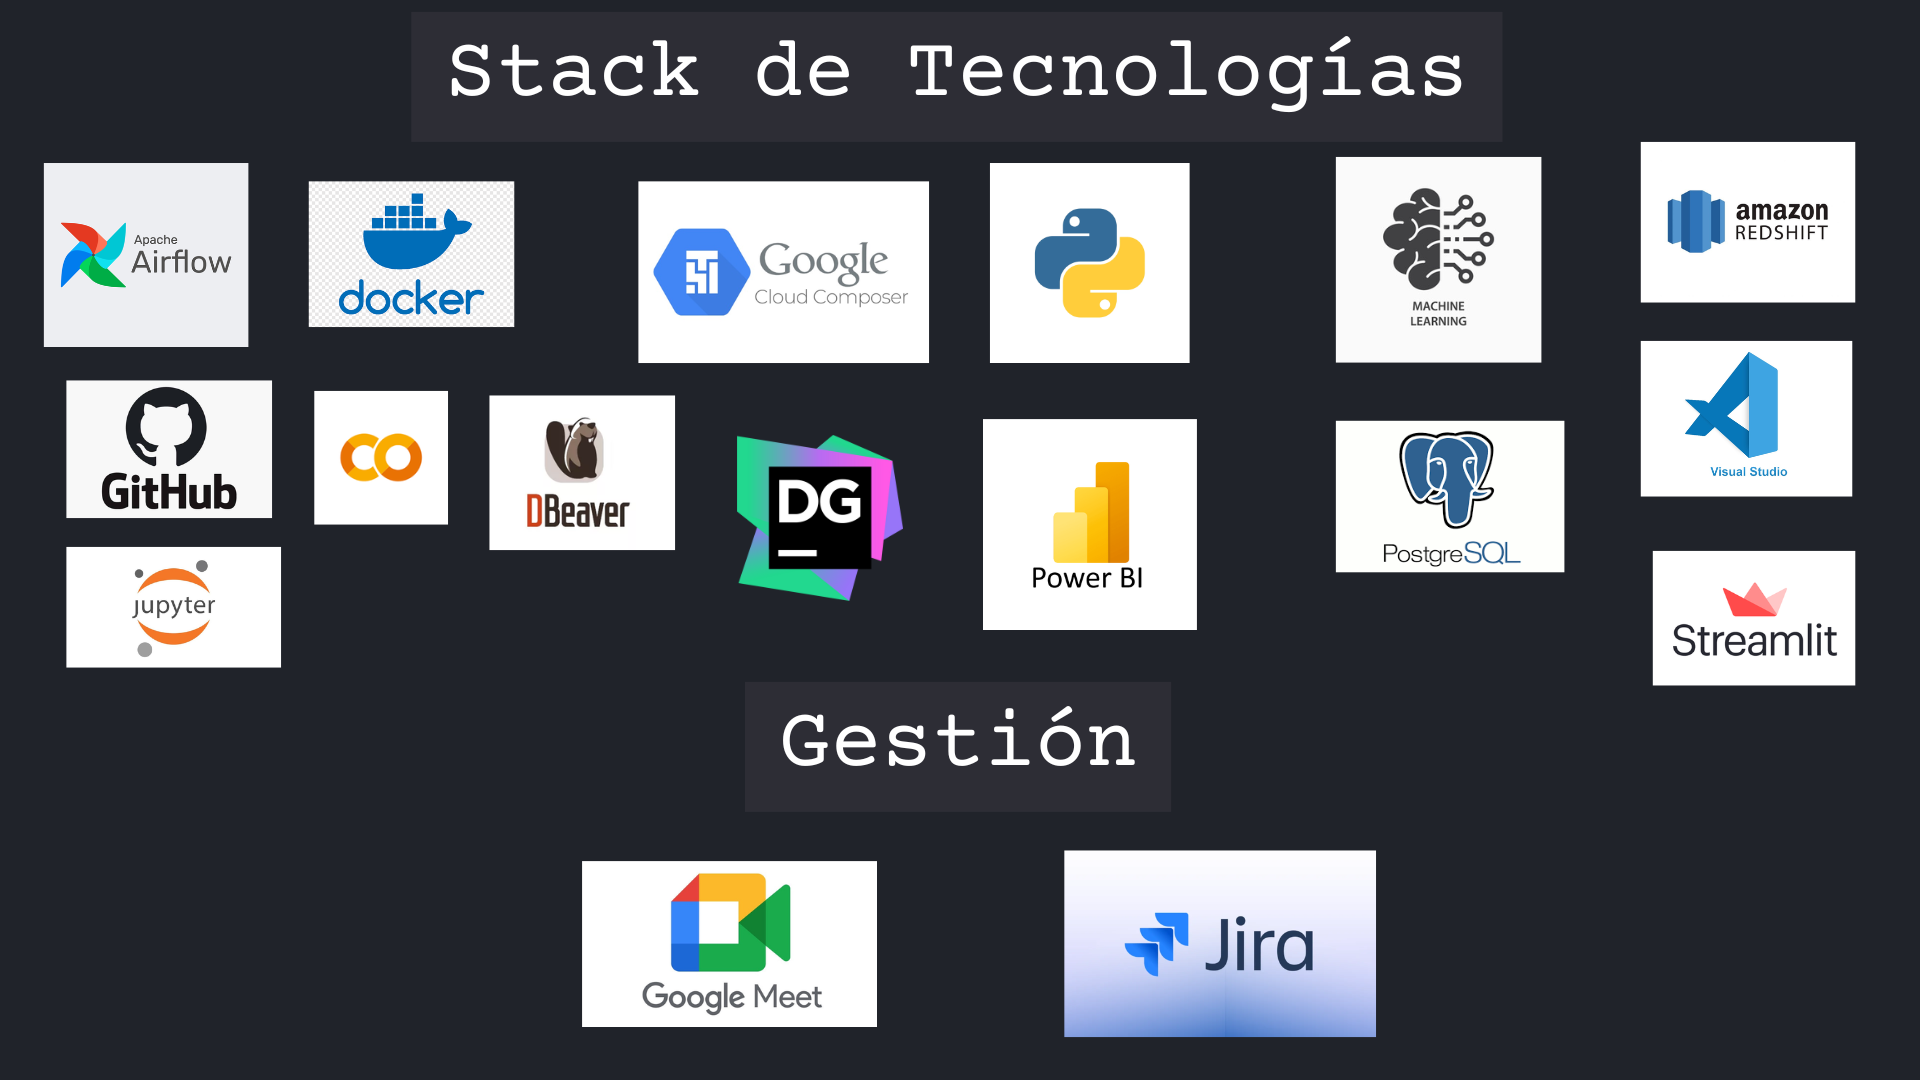
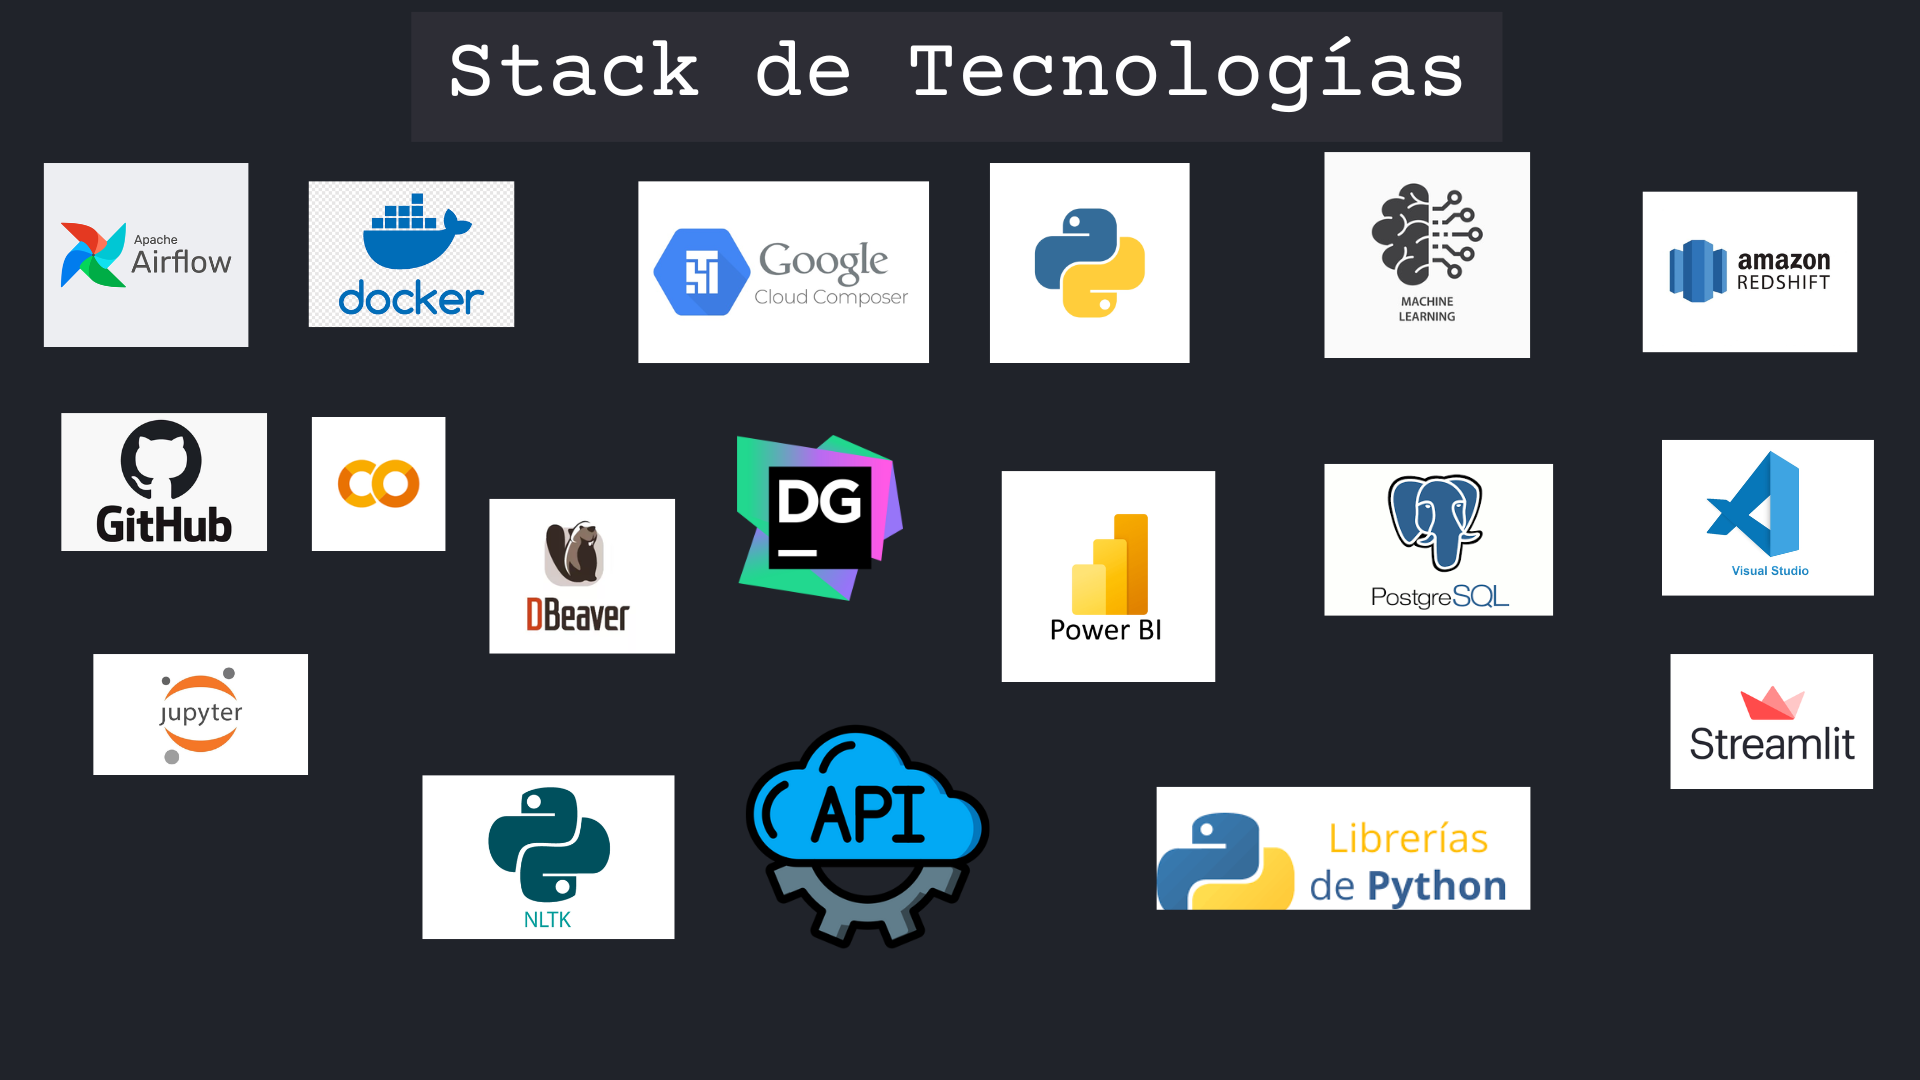
readme/images modificados

diff --git a/README.md b/README.md
@@ -1,8 +1,14 @@
+# Empresa
+
+## Objetivo🌱
+En **EnergySmart Invest**, nuestro objetivo es proporcionar herramientas innovadoras y basadas en datos que permitan a los analistas e inversionistas del sector energético tomar decisiones informadas y estratégicas. Aprovechamos el poder del análisis de datos financieros, machine learning y análisis de sentimiento de noticias para ofrecer una visión integral del mercado energético, ayudando a nuestros clientes a identificar oportunidades de inversión sostenibles y rentables.
+
+# Proyecto MVP
 <p align="center">
   <img width="" height="400" src="images/portada.png" alt="Proyecto">
 </p>
 
-## Estructura del Equipo 	
+
 <p align="center">
   <img width="" height="400" src="images/team.png" alt="Team">
 </p>
@@ -20,7 +26,7 @@
     [Github](https://github.com/juancorzamar93)
 
     [Gmail](mailto:juancorzamar@gmail.com)
-- **Nicolas Salamanca** - Data Engineer
+- **Nicolas Salamanca** - Data Scientist
   
   [Linkedin](https://www.example.com/image.jpg)
 
@@ -44,19 +50,80 @@
 
 ### Este proyecto tiene como objetivo proporcionar una solución integral para los analistas e inversionistas especializados en el sector energético, facilitando el acceso a datos actualizados de cotizaciones diarias de empresas que cotizan en bolsas internacionales. Mediante la integración de tecnologías avanzadas, se automatiza la extracción, almacenamiento y análisis de estos datos.
 
+<p align="center">
+  <img width="" height="400" src="images/STACK.png" alt="stack">
+</p>
+
+
+|  Librería/herramienta    |   Logo                                    | Descripción                                                                                                           |
+|----------------------|-----------------------------------------|----------------------------------------------|
+| **Pandas**   |      <img src="https://upload.wikimedia.org/wikipedia/commons/thumb/e/ed/Pandas_logo.svg/1200px-Pandas_logo.svg.png" width="100">   | Librería de Python para manipulación y análisis de datos.       |
+| **NumPy**     |  <img src="https://numpy.org/images/logo.svg" width="50">                      | Librería fundamental para computación numérica en Python.       | 
+|**Matplotlib**|<img src="https://matplotlib.org/_static/logo_light.svg" width="100">| Librería fundamental para la generación de gráficos en dos dimensiones.|
+|**Yfinance**|<img src="https://cdn6.aptoide.com/imgs/c/2/7/c271bd2b90b62b493e82435882c44846_icon.png?w=128" width="30">| API de Python para datos financieros de Yahoo Finance.|
+|**XGBoost**|<img src="https://miro.medium.com/v2/resize:fit:1190/1*yhE3CBwTrlXcAIvNJNTQiA.png" width="100">| Librería de Python para algoritmos de boosting.|
+|**Lightgbm**|<img src="https://www.kdnuggets.com/wp-content/uploads/chugh_lgbmclassifier_gettingstarted_guide_1.png" width="50">| Framework de aprendizaje automático basado en árboles.|
+|**Statsmodels**|<img src="https://www.statsmodels.org/stable/_images/statsmodels-logo-v2.svg" width="75">| Librería de Python para modelado estadístico.|
+|**Scikit-learn**|<img src="https://raw.githubusercontent.com/scikit-learn/scikit-learn/d20e0b9abc4a4798d1fd839db50b19c01723094e/doc/logos/scikit-learn-logo.svg" width="150">| Librería de Python para aprendizaje automático.|
+| **Jupyter**|<img src="https://jupyter.org/assets/homepage/main-logo.svg" width="65">| Software gratuito, estándares abiertos y servicios web para informática interactiva en todos los lenguajes de programación.|
+| **Visual Studio Code**|<img src="https://static-00.iconduck.com/assets.00/visual-studio-code-icon-512x506-2fdb6ar6.png" width="70">| Editor de código fuente.|
+| **PostgreSQL**|<img src="https://static-00.iconduck.com/assets.00/mysqlworkbench-icon-512x506-uen0mqej.png" width="65">| Herramienta visual de diseño de bases de datos que integra desarrollo de software, administración de bases de datos, diseño de bases de datos, gestión y mantenimiento para el sistema de base de datos MySQL.|
+| **Colaboratory con Python**|<img src="https://colab.research.google.com/img/colab_favicon_256px.png" width="60">| Utilizaremos Colaboratory, una plataforma de Google basada en Jupyter Notebooks, junto con las potentes librerías de Python para análisis de datos como Pandas, NumPy y Matplotlib.|
+| **Power BI**|<img src="https://cdn-dynmedia-1.microsoft.com/is/image/microsoftcorp/Analysts_PBI?resMode=sharp2&op_usm=1.5,0.65,15,0&wid=2000&qlt=99&fmt=png-alpha&fit=constrain" width="100">| Para la visualización de datos avanzada, aprovecharemos Power BI, una herramienta líder en el mercado para crear informes interactivos y paneles de control.|
+| **Canva**|<img src="https://upload.wikimedia.org/wikipedia/commons/thumb/b/bb/Canva_Logo.svg/250px-Canva_Logo.svg.png" width="100">| Es una plataforma de diseño gráfico y composición de imágenes.|
+| **Power Point**|<img src="https://upload.wikimedia.org/wikipedia/commons/thumb/1/16/Microsoft_PowerPoint_2013-2019_logo.svg/610px-Microsoft_PowerPoint_2013-2019_logo.svg.png" width="100">| Microsoft PowerPoint (PPT) es un software de ofimática diseñado para realizar presentación de diapositivas..|
+| **Python**|<img src="https://seeklogo.com/images/P/python-logo-A32636CAA3-seeklogo.com.png" width="50">| Lenguaje de programación utilizado para análisis de datos y desarrollo de aplicaciones.|
+| **GitHub**|<img src="https://img.shields.io/badge/GitHub-181717?style=for-the-badge&logo=github&logoColor=white" width="100">| Plataforma de desarrollo colaborativo para proyectos de software.|
+| **Trello**|<img src="https://upload.wikimedia.org/wikipedia/en/8/8c/Trello_logo.svg" width="100">| Herramienta de gestión de proyectos y seguimiento de problemas.|
+| Apache Airflow | <img src="images/airflow.png" width="100"> | Plataforma de código abierto para la gestión de flujos de trabajo de datos y automatización de procesos ETL. |
+| Docker | <img src="https://www.docker.com/wp-content/uploads/2022/03/Moby-logo.png" width="100"> | Plataforma de contenedores que permite crear, desplegar y gestionar aplicaciones en entornos aislados y portables. | 
+| Google Composer | <img src="images/composer.png" width="100"> | Servicio de Google Cloud que gestiona Apache Airflow, facilitando la creación y ejecución de flujos de trabajo en la nube. | 
+| Amazon Redshift | <img src="images/images.png" width="100"> | Data warehouse escalable basado en la nube, optimizado para el análisis de grandes volúmenes de datos. | 
+| PostgreSQL | <img src="https://upload.wikimedia.org/wikipedia/commons/2/29/Postgresql_elephant.svg" width="100"> | Sistema de gestión de bases de datos relacional y de código abierto que permite almacenar y gestionar datos de manera eficiente. | 
+| DBeaver | <img src="images/descarga.jpg" width="100"> | Herramienta de administración de bases de datos que soporta múltiples bases, incluida PostgreSQL. | 
+| DataGrip | <img src="https://resources.jetbrains.com/storage/products/datagrip/img/meta/datagrip_logo_300x300.png" width="100"> | IDE de bases de datos de JetBrains que proporciona una interfaz avanzada para trabajar con SQL y múltiples sistemas de bases de datos. | 
+| NLTK (Python) | <img src="images/nltk.png" width="100"> | Librería de Python para el procesamiento y análisis de lenguaje natural, utilizada para tareas de análisis de texto y sentimientos. |
+
+<p align="center">
+  <img width="" height="400" src="images/gestion.png" alt="gestion">
+</p>
+
+### Metodología de Gestión de Proyectos
+
+- Para gestionar este proyecto, adoptamos la metodología Scrum, una opción ideal para proyectos en entornos complejos y dinámicos que requieren agilidad y resultados rápidos. Scrum se basa en entregas parciales y regulares del producto final, priorizando el valor entregado a los clientes. Esto nos permitió trabajar de manera ágil y adaptarnos continuamente a las necesidades cambiantes del proyecto.
+  
+- Para la gestión, organizamos las fases del proyecto en cuatro sprints semanales. 
+  
+- Como herramienta de gestión inicialmente utilizamos Trello, luego migramos a Jira para un seguimiento más detallado de las tareas/sprint y google Meet para las daily meeting.
+
+
+
 ## Descripción del Proyecto
 
 ### Nuestro sistema se encarga de extraer diariamente datos financieros actualizados de empresas energéticas desde Yahoo Finance, procesarlos mediante un pipeline automatizado de ETL, y almacenarlos en un data warehouse en Amazon Redshift. A partir de estos datos, se realizan análisis exploratorios (EDA), predicciones con modelos de machine learning y visualizaciones interactivas, con el fin de generar recomendaciones de inversión para nuestros usuarios.
 
-### Problema
+### Problema 🧠
 
 Los analistas e inversionistas en el sector energético enfrentan dificultades para obtener datos financieros actualizados y confiables sobre las empresas energéticas que cotizan en bolsas internacionales. Esta falta de datos actualizados puede dificultar la toma de decisiones informadas sobre inversiones y estrategias de mercado.
 
-### Solución
+### Solución 💡
 
-La solución planteada consiste en un sistema automatizado que extrae diariamente los datos financieros de empresas energéticas de [Yahoo Finance](https://finance.yahoo.com "Yahoo Finance") utilizando web scraping. Los datos extraídos se almacenan en un data warehouse en Amazon Redshift, y las cotizaciones históricas y actuales se visualizan en dashboards interactivos creados con Power BI. Adicionalmente, implementamos modelos de machine learning que predicen el comportamiento futuro de las acciones, ayudando a los analistas a tomar decisiones informadas.
+La solución planteada consiste en un sistema automatizado que:
 
-### Características Principales
+- 🔄 Extrae datos financieros diariamente desde [Yahoo Finance](https://finance.yahoo.com "Yahoo Finance")  utilizando técnicas de web scraping.
+- 📊 Almacena los datos en un data warehouse en Amazon Redshift, permitiendo acceso rápido y centralizado a información actualizada.
+- 🚀 Genera visualizaciones interactivas con Power BI, que muestran las cotizaciones históricas y actuales de las empresas energéticas.
+- 🤖 Implementa modelos de machine learning para predecir el comportamiento futuro de las acciones, ayudando a los analistas a tomar decisiones informadas.
+- 📰 Realiza análisis de sentimiento de noticias utilizando la API de News API, clasificando el sentimiento negativo sobre las empresas energéticas.
+  
+Este sistema proporciona a los analistas e inversionistas la capacidad de obtener datos confiables y actualizados de forma automatizada, lo que facilita la toma de decisiones estratégicas en el sector energético.
+
+<p align="center">
+  <img width="" height="400" src="images/ETL.png" alt="ETL">
+</p>
+
+
+### Características Principales 💡
 
 - Extracción de datos financieros mediante web scraping.
 
@@ -66,59 +133,42 @@ La solución planteada consiste en un sistema automatizado que extrae diariament
 
 - Análisis avanzado de datos financieros.
 
-- Modelo de recomendación de inversión basado en deep learning.
-
+- Análisis de sentimientos de noticias relacionadas con empresas de energía de América Latina
+  
 - Visualización interactiva de los datos financieros históricos y actuales mediante Power BI.
 
 - Despliegue del modelo de machine learning para predicción de comportamientos futuros en las bolsas internacionales.
-
-### Tecnologías Utilizadas
-
-**Docker:** Contenerización y gestión de entornos de desarrollo.
-
-**Airflow y Composer de Google:** Orquestación del pipeline de ETL.
-
-**Amazon Redshift:** Almacenamiento de datos en un data warehouse escalable.
-
-**Python:** Lenguaje principal para la automatización de procesos y análisis de datos.
-
-**Streamlit:** Visualización y despliegue de aplicaciones interactivas de machine learning.
-
-**Power BI:** Herramienta de visualización de datos para la creación de dashboards interactivos.
-
-**PostgreSQL:** Sistema de gestión de bases de datos utilizado para la extracción y análisis de los datos financieros.
 
 ### Datos Financieros
 
 Los datos extraídos de Yahoo Finance para cada empresa energética incluyen las siguientes columnas:
 
-- **Date**
+- **Date:** Fecha de la transacción. Representa el día en que los datos financieros fueron registrados para esa empresa energética.
 
-- **Open**
+- **Open:** Precio de apertura. Es el precio al que se negoció la primera acción del día de la empresa en el mercado. Este valor puede dar una indicación de cómo comenzaron las negociaciones ese día.
 
-- **High**
+- **High:** Precio más alto del día. Es el precio más alto al que se negoció la acción de la empresa durante el día. Este dato es clave para ver la volatilidad de los precios.
 
-- **Low**
+- **Low:** Precio más bajo del día. Es el precio más bajo al que se negoció la acción de la empresa durante el día. Complementa al valor de High para entender la amplitud de variaciones.
 
-- **Close**
+- **Close:** Precio de cierre. Es el precio al que se negoció la última acción del día. Este valor se utiliza frecuentemente para hacer análisis de tendencias y comparar el rendimiento de una acción en días consecutivos.
 
-- **Volume**
+- **Volume:** Volumen de transacciones. Representa el número total de acciones de la empresa que fueron negociadas durante ese día. Un volumen alto puede indicar un interés creciente en la empresa, mientras que un volumen bajo podría reflejar lo contrario.
 
-- **Dividends**
+- **Dividends:** Dividendos pagados. Si la empresa distribuye dividendos a sus accionistas en una fecha determinada, este valor reflejará cuánto se ha pagado por acción. Si no hubo dividendos, el valor será cero o estará vacío.
 
-- **Stock Split**
-
-### Metodología de Gestión de Proyectos
-
-Para la gestión del proyecto, implementamos la metodología Scrum, organizando las fases del proyecto en cuatro sprints semanales. Inicialmente utilizamos Trello como herramienta de gestión, pero luego migramos a Jira para un seguimiento más detallado de las tareas.
+- **Stock Split:** Desdoblamiento de acciones. Cuando una empresa realiza un split de sus acciones (por ejemplo, 2 por 1), se indica en esta columna. Un "split" significa que las acciones se dividen, lo cual no cambia el valor total de la inversión, pero ajusta el precio por acción.
 
 
+### Etapas del Proyecto 🚀  
+- **Mockup Técnico:** Diseño inicial y planteamiento técnico del sistema de extracción, almacenamiento y visualización de los datos financieros.
+- **Mockup Sentimiento:** Implementación de la funcionalidad para analizar el sentimiento de las noticias de las empresas energéticas de América Latina.
+- **Mockup Predictivo:** Desarrollo del modelo de machine learning para predecir el comportamiento de las acciones basado en los datos históricos y actuales.
+- 
+### Contenidos del Proyecto
+- 📊 **Dashboard :** Visualización interactiva de los datos financieros en Power BI. Enlace al tablero (aquí incluirás el link y la imagen del dashboard).
+- 📂**Data :** Acceso al dataset utilizado para el análisis financiero. Enlace al dataset.
+- 📑**Presentación:** Presentación del proyecto en PowerPoint. Enlace a la presentación.
 
-### Despliegue del Producto
-Este proyecto está siendo desarrollado como parte de un programa de aceleramiento en No Country, el cual tiene como objetivo principal aprender y reforzar habilidades de trabajo en equipo, así como el desarrollo y uso de tecnologías en el campo de Data BI. Aunque no es un producto comercializable en esta etapa, el enfoque está en la mejora continua de habilidades técnicas y colaborativas.
-
-
-
-
-
+## 📢 Conclusiones clave
 
